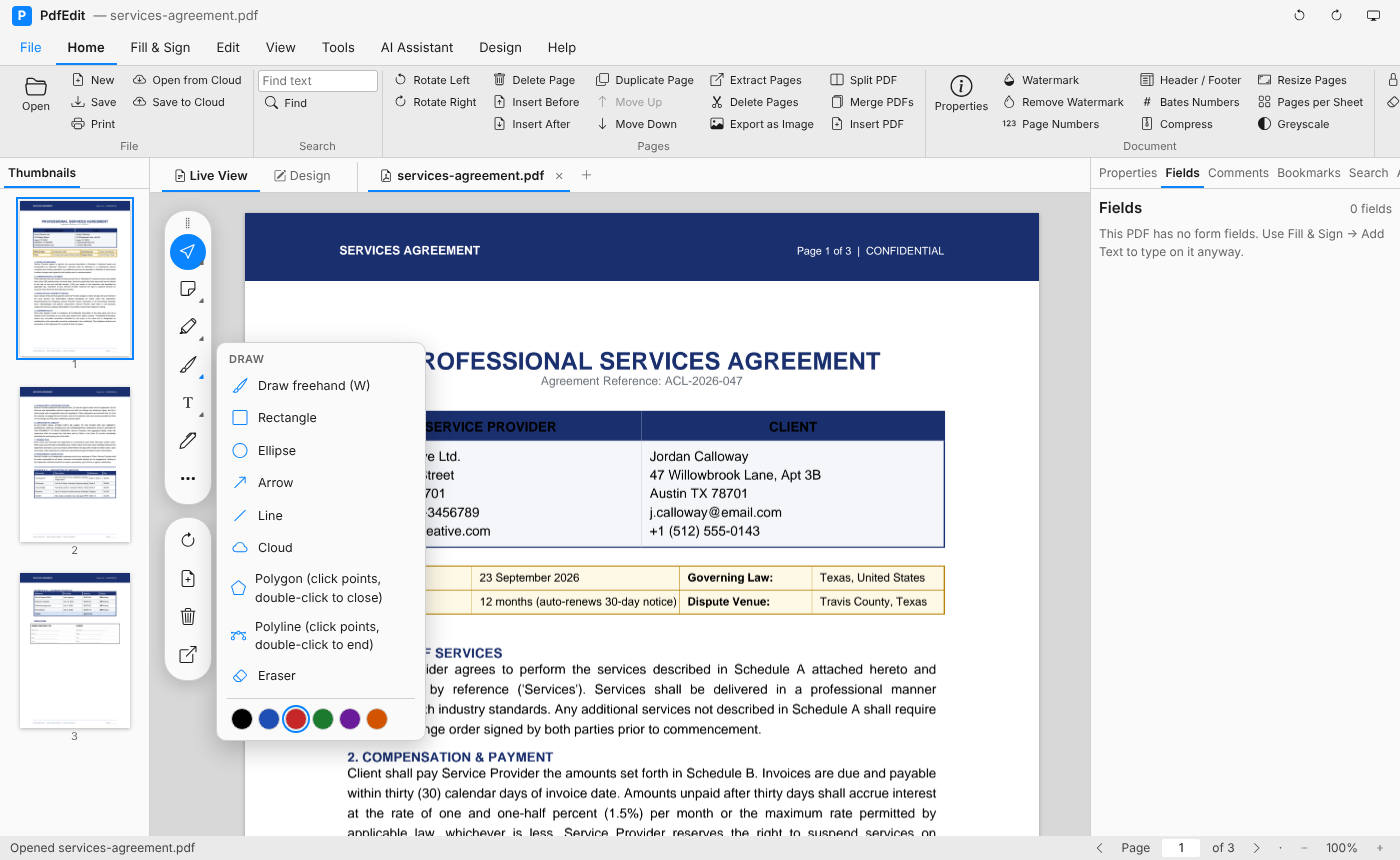
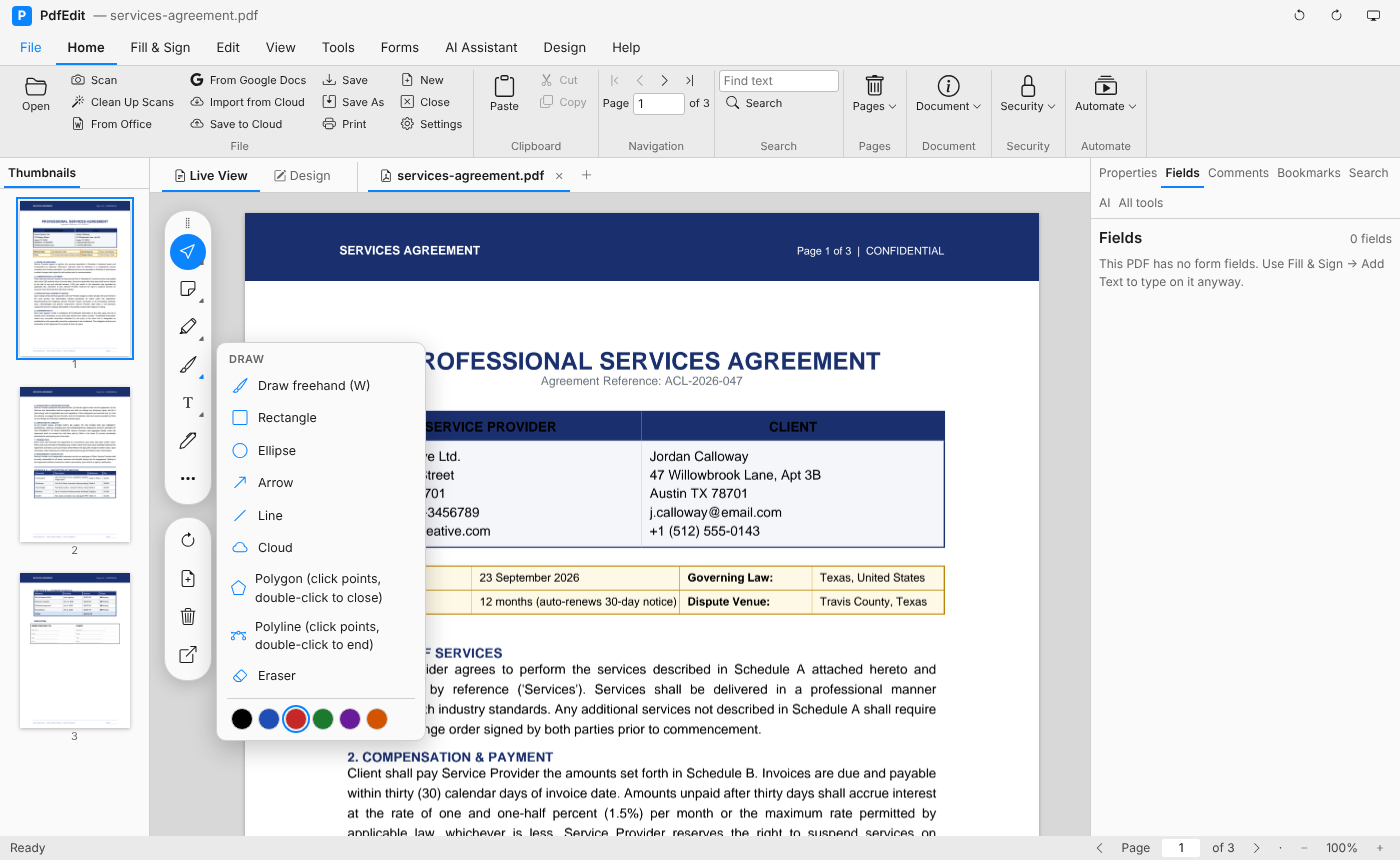
Docs: new screenshots of the Tools tab and the floating toolbox
Retaken with the new ribbon: the Tools tab with markup on a page, the
toolbox's Draw, Comment, Highlight, Sign and More flyouts, toolbox tools on
a page and the design toolbox; shown first in the web version's section.

Claude-Session: https://claude.ai/code/session_01NRCW74awtpyhUgCMeQJ1xW

diff --git a/README.md b/README.md
@@ -44,6 +44,38 @@ Google Drive and OneDrive, Office files to PDF, several documents open at once, 
 floating toolbox beside the pages.
 How to run it and what it needs on the server: [PdfEdit.Blazor/README.md](PdfEdit.Blazor/README.md).
 
+**The Tools tab and the floating toolbox: highlight, underline, strikethrough, rectangle, arrow, cloud, callout, sticky note, stamp and a measurement on a page**
+
+![The Tools tab with comments and markup placed on the page](docs/screenshots/blazor/tools-tab.png)
+
+**Floating toolbox: Draw tools with ink colours**
+
+![Floating toolbox with the Draw flyout open](docs/screenshots/blazor/toolbox-draw.png)
+
+**Comment tools: sticky note, callout, insert and replace text, stamps**
+
+![The Comment flyout](docs/screenshots/blazor/toolbox-comment.png)
+
+**Highlight tools: highlight, underline, squiggly, strikethrough, with colours**
+
+![The Highlight flyout](docs/screenshots/blazor/toolbox-highlight.png)
+
+**Sign: saved signatures and initials, or sign with a certificate**
+
+![The Sign flyout with a saved signature and initials](docs/screenshots/blazor/toolbox-sign.png)
+
+**More tools: measure, navigate, fill, shapes and form fields**
+
+![The More flyout](docs/screenshots/blazor/toolbox-more.png)
+
+**Toolbox tools on a page: callout, insert and replace text, highlights, clouds, polygons, marks, vertical text and initials**
+
+![Callouts, text edits, markup, clouds, polygons, marks and initials placed with the toolbox](docs/screenshots/blazor/toolbox-tools.png)
+
+**Design toolbox with the grid on, and an invoice template**
+
+![The design toolbox with the grid turned on](docs/screenshots/blazor/toolbox-design.png)
+
 **The ribbon, tab by tab, as in the Windows app**
 
 ![Home tab](docs/screenshots/blazor/ribbon-home.png)
@@ -85,26 +117,6 @@ How to run it and what it needs on the server: [PdfEdit.Blazor/README.md](PdfEdi
 **Take the Tour**
 
 ![The tour](docs/screenshots/blazor/tour.png)
-
-**Floating toolbox: Draw tools with ink colours**
-
-![Floating toolbox with the Draw flyout open](docs/screenshots/blazor/toolbox-draw.png)
-
-**Toolbox tools on a page: callout, insert and replace text, highlights, clouds, polygons, marks, vertical text and initials**
-
-![Callouts, text edits, markup, clouds, polygons, marks and initials placed with the toolbox](docs/screenshots/blazor/toolbox-tools.png)
-
-**Saved signatures and initials**
-
-![The Sign flyout with a saved signature and initials](docs/screenshots/blazor/toolbox-sign.png)
-
-**More tools: measure, navigate, fill, shapes and form fields**
-
-![The More flyout](docs/screenshots/blazor/toolbox-more.png)
-
-**Design toolbox with grid and snap**
-
-![The design toolbox with the grid turned on](docs/screenshots/blazor/toolbox-design.png)
 
 **Fill in and sign forms — Light theme**
 

diff --git a/PdfEdit.Blazor/README.md b/PdfEdit.Blazor/README.md
@@ -17,6 +17,11 @@ offered on the start page.
 
 <table>
   <tr>
+    <td align="center"><img src="../docs/screenshots/blazor/tools-tab.png" alt="Tools tab with markup on the page"><br>Tools tab and toolbox</td>
+    <td align="center"><img src="../docs/screenshots/blazor/toolbox-comment.png" alt="Comment flyout"><br>Comment tools</td>
+    <td align="center"><img src="../docs/screenshots/blazor/toolbox-highlight.png" alt="Highlight flyout"><br>Highlight tools</td>
+  </tr>
+  <tr>
     <td align="center"><img src="../docs/screenshots/blazor/ribbon-collapsed.png" alt="Ribbon with a collapsed group"><br>Ribbon (groups fold into drop-downs)</td>
     <td align="center"><img src="../docs/screenshots/blazor/all-tools-dracula.png" alt="All tools, Dracula theme"><br>All tools, Dracula theme</td>
     <td align="center"><img src="../docs/screenshots/blazor/theme-office.png" alt="Office theme"><br>Office theme</td>
